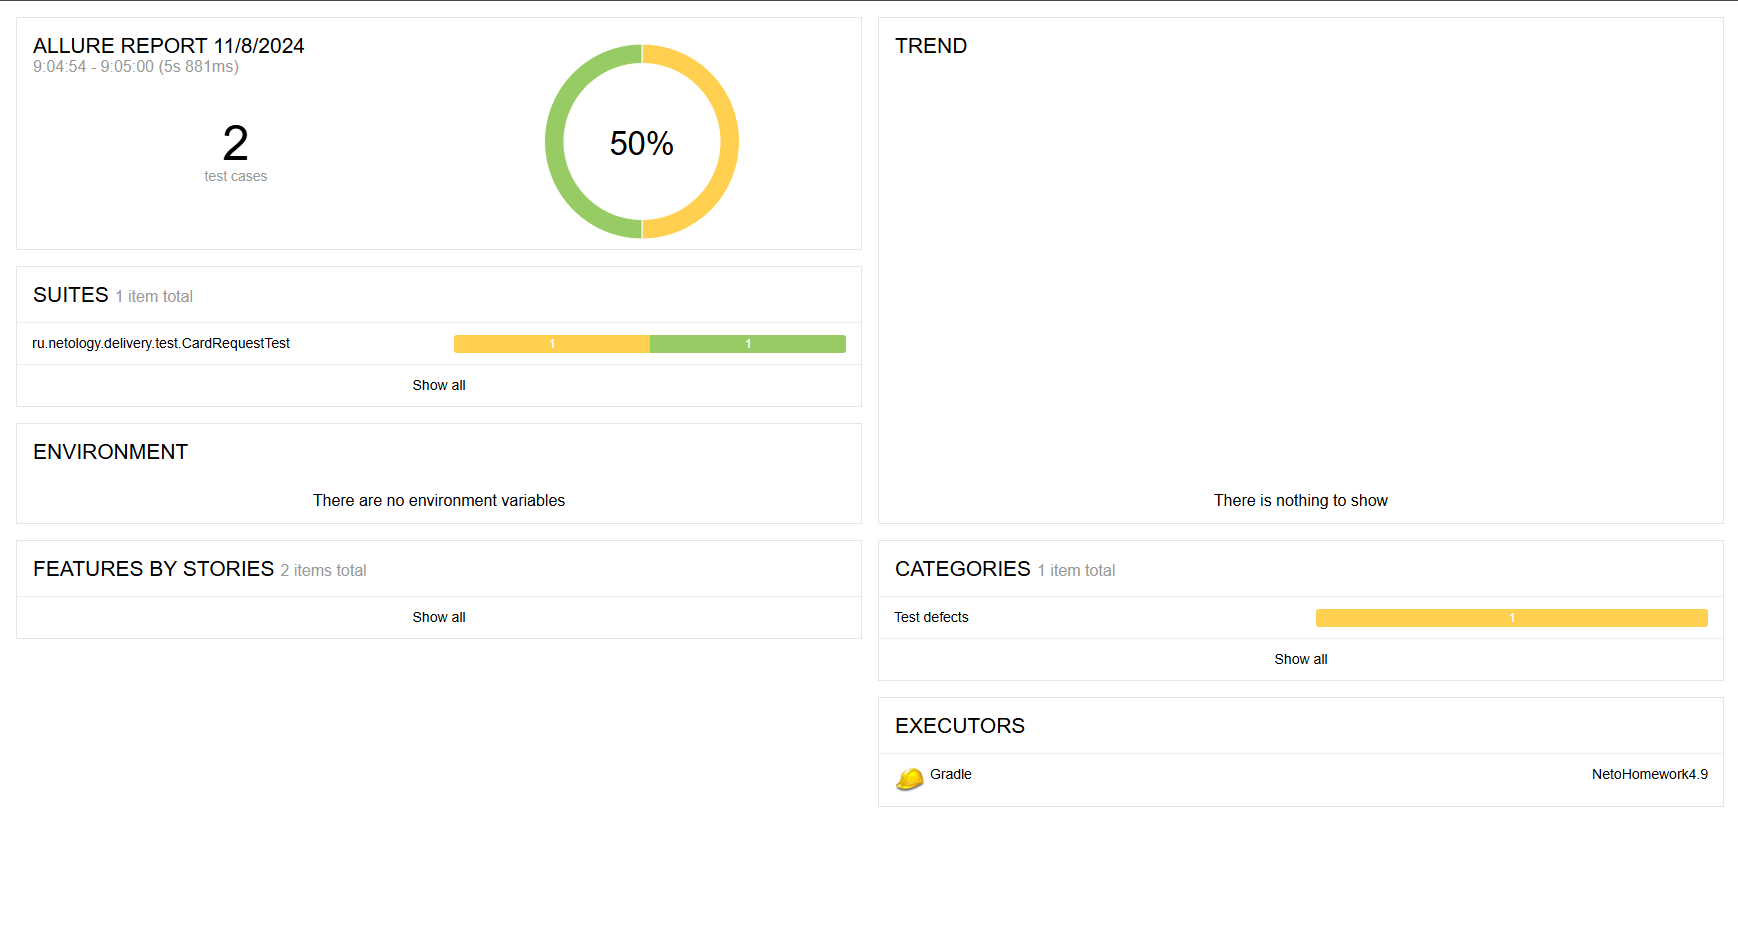
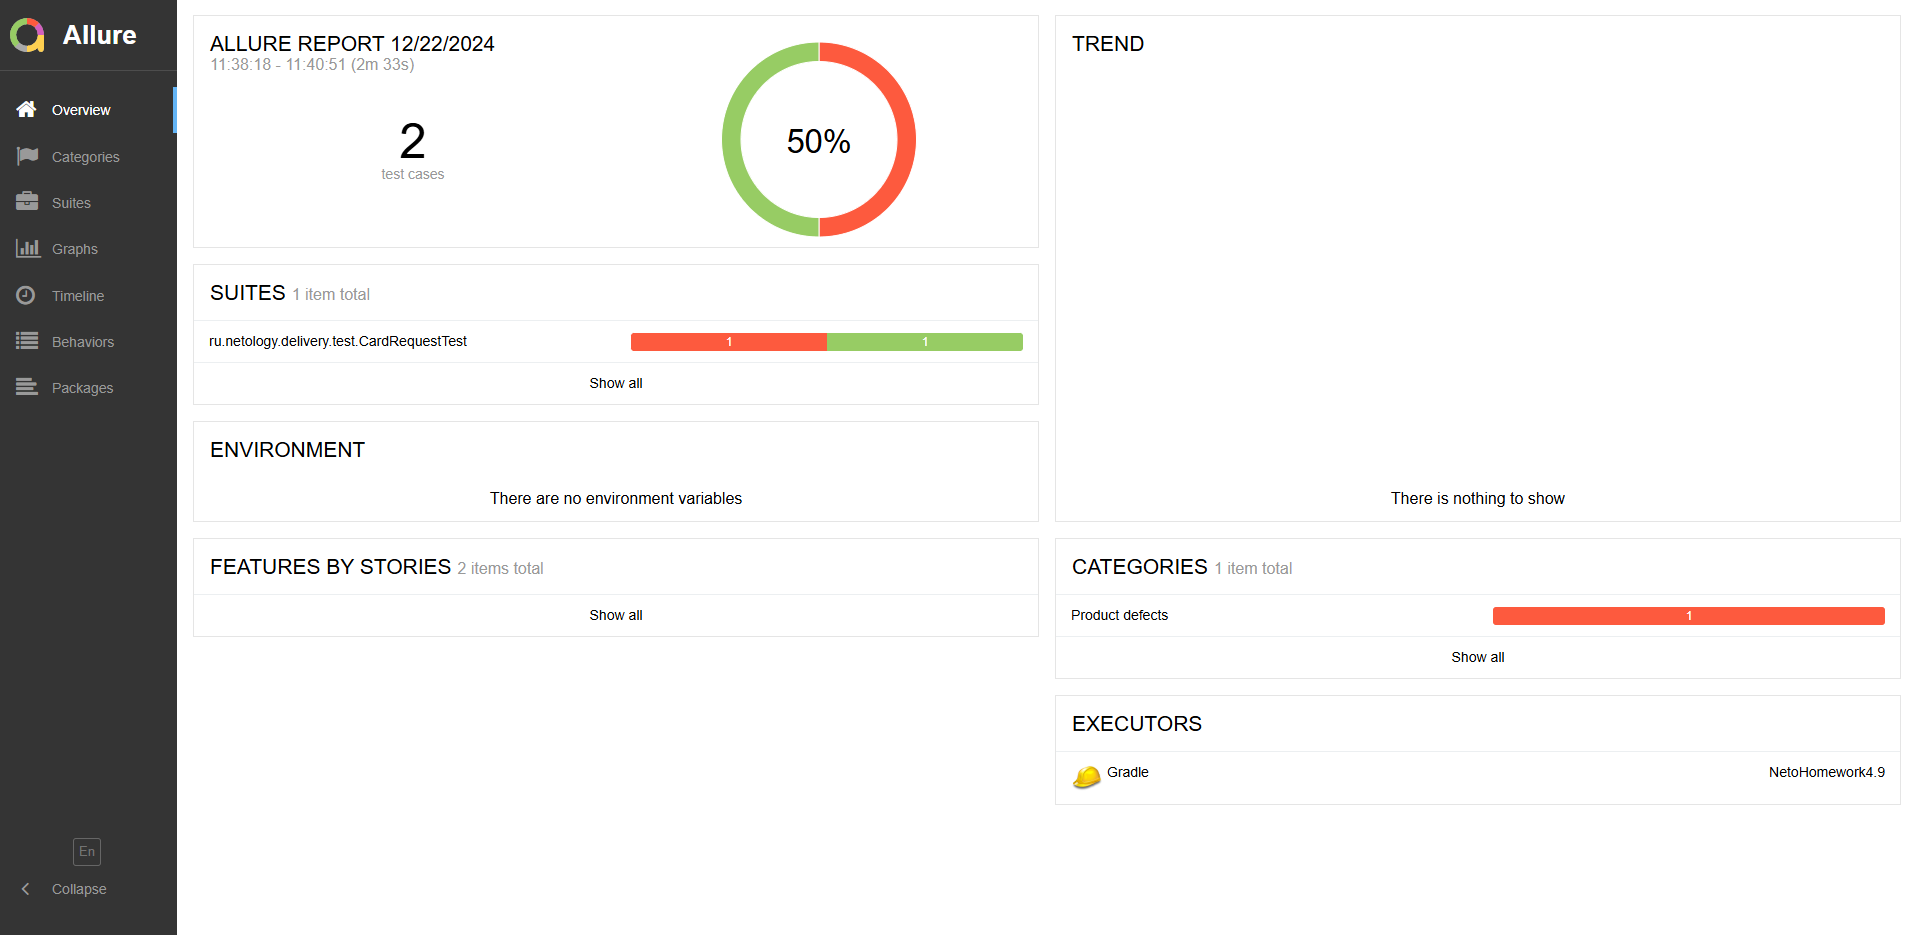
fix selector in "shouldFailSendRequest"  test

diff --git a/src/test/java/ru/netology/delivery/test/CardRequestTest.java b/src/test/java/ru/netology/delivery/test/CardRequestTest.java
@@ -65,19 +65,26 @@ public class CardRequestTest {
     }
 
     @Test
-    public void shouldFailSendRequest() {
+    public void shouldFailSendRequest() throws InterruptedException {
         preTest();
         var randomUser = DataGenerator.Registration.getUser();
 
         $("[data-test-id='city'] input").setValue(randomUser.getCity());
+        Thread.sleep(2000);
         String inputDate = DataGenerator.getMinDate(PLUS_DAYS);
         $("[data-test-id='date'] input").sendKeys(Keys.chord(Keys.SHIFT, Keys.HOME), Keys.DELETE);
+        Thread.sleep(2000);
         $("[data-test-id='date'] input").setValue(inputDate);
+        Thread.sleep(2000);
         $("[data-test-id='name'] input").setValue(randomUser.getName());
+        Thread.sleep(2000);
         $("[data-test-id='phone'] input").setValue(DataGenerator.getWrongPhoneNum());
+        Thread.sleep(2000);
         $("[data-test-id='agreement']").click();
+        Thread.sleep(2000);
         $("button.button").click();
-        $("[data-test-id='phone'].input_invalid . input_sub")
+        Thread.sleep(5000);
+        $("[data-test-id='phone'] .input__sub")
                 .shouldHave(Condition.text("Неверный формат номера мобильного телефона"))
                 .shouldBe(visible);
     }
